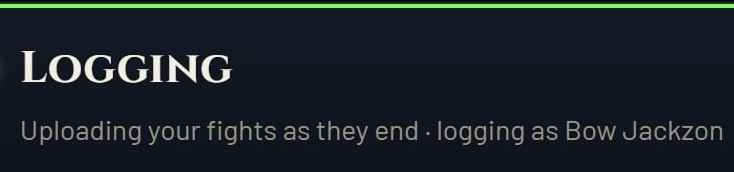
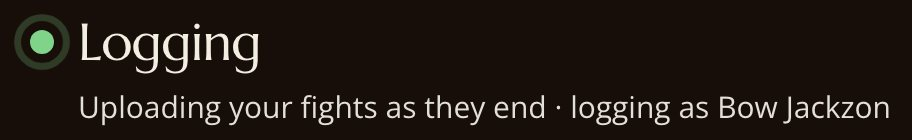
feat(setup): companion captures show the 0.2.44 window
The /setup companion step showed the 2026-10-21 window (gold seal, caps tabs,
green Logging card). Both captures are now 2x crops of companion 0.2.44
(round-5 window, seal v4), state logging-credited from
design/mocks/companion/shoot_ui.cjs, fixture name Bow Jackzon.

- companion-status.jpg 1600x460 (55 KB): band, tabs and framed headline.
- companion-status-phone.jpg 912x140 (14 KB): title and sub line only, now
  served under 640 px through Capture's optional narrow source (it was
  declared but never used, so 390 shrank the full crop to 6-7 px text).
- Alt text true for both crops; e2e aspect checks read the copy's sizes.
- Verdicts: ux-designer SHIP, ai-slop-reviewer PASS (round 2), in
  design/reviews/2026-11-10-companion-shots/.

Claude-Session: https://claude.ai/code/session_01Wrtayzxz2jvhjren4pWihn

diff --git a/web/src/components/ui/Capture.svelte b/web/src/components/ui/Capture.svelte
@@ -2,14 +2,23 @@
 <!-- A client screenshot at its own aspect (setup spec 2026-11-07 section 3A): a 1 px --line-soft
      frame, 4 px radius, --raised behind object-fit: contain, capped at its native width and 420 px
      high (900 for a portrait capture, or `maxHeight`), width and height set so nothing moves as it
-     loads, lazy unless `eager`. The image links to its own file; a sample carries a muted Tag. -->
+     loads, lazy unless `eager`. The image links to its own file; a sample carries a muted Tag. A
+     `narrow` source (a tighter crop of the same picture) replaces it under 640 px, at its own aspect. -->
 <script lang="ts">
   import Tag from './Tag.svelte';
+
+  /** A tighter crop of the same capture, shown under 640 px so its text stays legible. */
+  interface NarrowSource {
+    src: string;
+    width: number;
+    height: number;
+  }
 
   let {
     src,
     width,
     height,
+    narrow,
     alt,
     tag,
     tall = false,
@@ -20,6 +29,7 @@
     src: string;
     width: number;
     height: number;
+    narrow?: NarrowSource;
     alt: string;
     /** A muted Tag under the picture (`Example`). */
     tag?: string;
@@ -34,16 +44,36 @@
   const cap = $derived(maxHeight ?? (tall ? 900 : 420));
 </script>
 
+{#snippet image()}
+  <img {src} {width} {height} {alt} loading={eager ? 'eager' : 'lazy'} decoding="async" />
+{/snippet}
+
 <div class="ui-capture" data-testid={testid}>
-  <a
-    class="ui-capture-frame"
-    href={src}
-    style:max-width="{width}px"
-    style:max-height="{cap}px"
-    style:aspect-ratio="{width} / {height}"
-  >
-    <img {src} {width} {height} {alt} loading={eager ? 'eager' : 'lazy'} decoding="async" />
-  </a>
+  {#if narrow}
+    <a
+      class="ui-capture-frame ui-capture-frame-narrow"
+      href={src}
+      style:max-width="{width}px"
+      style:max-height="{cap}px"
+      style:--capture-ratio="{width} / {height}"
+      style:--capture-ratio-narrow="{narrow.width} / {narrow.height}"
+    >
+      <picture>
+        <source media="(max-width: 639px)" srcset={narrow.src} width={narrow.width} height={narrow.height} />
+        {@render image()}
+      </picture>
+    </a>
+  {:else}
+    <a
+      class="ui-capture-frame"
+      href={src}
+      style:max-width="{width}px"
+      style:max-height="{cap}px"
+      style:aspect-ratio="{width} / {height}"
+    >
+      {@render image()}
+    </a>
+  {/if}
   {#if tag}<Tag tone="muted">{tag}</Tag>{/if}
 </div>
 
@@ -62,6 +92,17 @@
     border: 1px solid var(--color-line-soft);
     border-radius: 4px;
     background: var(--color-raised);
+  }
+  .ui-capture-frame-narrow {
+    aspect-ratio: var(--capture-ratio);
+  }
+  @media (max-width: 639px) {
+    .ui-capture-frame-narrow {
+      aspect-ratio: var(--capture-ratio-narrow);
+    }
+  }
+  .ui-capture-frame picture {
+    display: contents;
   }
   .ui-capture-frame:hover {
     border-color: var(--color-line);

diff --git a/web/src/lib/addon/copy.ts b/web/src/lib/addon/copy.ts
@@ -174,20 +174,19 @@ export const addonCopy = {
   setupCompanionDownload: (platform: string): string => `Download for ${platform}`,
   /** Both builds side by side, when the page cannot tell the visitor's system: the group's name. */
   setupDownloadCompanion: 'Download the companion',
-  /** A 2x crop of the 0.2.11 companion's Status page, the Logging state credited to a fictional
-   *  two-word name (docs/superpowers/reviews/companion-premium/). */
+  /** A 2x crop of the 0.2.44 companion's Status page (round-5 window, seal v4), the Logging state
+   *  credited to the fixtures' fictional two-word name; shot by design/mocks/companion/shoot_ui.cjs
+   *  (state logging-credited, 800 px window). */
   setupCompanionCapture: {
     src: '/addon/companion-status.jpg',
     width: 1600,
-    height: 436,
+    height: 460,
     /** The phone source (W.10, P.1): the headline's title and sub line only, a 2x crop of the same
-     *  Status capture, shown at 100% width under 640px; the sub text is 11px at 314px wide. */
-    phoneSrc: '/addon/companion-status-phone.jpg',
-    phoneWidth: 734,
-    phoneHeight: 172,
+     *  Status capture, shown under 640px so the sub line stays near 11px at 314px wide. */
+    narrow: { src: '/addon/companion-status-phone.jpg', width: 912, height: 140 },
     /** The label on the picture while the visitor is signed out: the name in it is not theirs. */
     exampleLabel: 'Example',
-    alt: 'The companion’s Status page: the Forever Sixty header with Status, Reports, Device and Settings, then a green dot beside “Logging”, “Uploading your fights as they end · logging as Bow Jackzon” and the link “Open this report on the site”.',
+    alt: 'The companion’s Status page: Logging, uploading your fights as they end, logging as Bow Jackzon.',
   },
   /** The disclosure that holds the paste box. */
   setupTryExport: 'Try an export',

diff --git a/web/tests/e2e/launch-polish.spec.ts b/web/tests/e2e/launch-polish.spec.ts
@@ -9,6 +9,7 @@ import { mkdirSync } from 'node:fs';
 import { join } from 'node:path';
 import type { Page } from '@playwright/test';
 import { expect, test } from './support/test';
+import { companionCaptureRatio } from './support/setup-capture';
 import {
   CHARACTER,
   CHARACTER_PATH,
@@ -164,7 +165,7 @@ for (const size of SIZES) {
 test.describe('/setup picture at 390', () => {
   test.use({ viewport: { width: 390, height: 844 } });
 
-  test('is the whole Status capture at its aspect, labelled Example when signed out', async ({ page }) => {
+  test('is the Status headline crop at its aspect, labelled Example when signed out', async ({ page }) => {
     await signedOut(page);
     await page.goto('/setup');
     const frame = page.getByTestId('setup-companion-capture');
@@ -176,7 +177,7 @@ test.describe('/setup picture at 390', () => {
       .toBe(true);
     const box = await img.evaluate((el: HTMLImageElement) => el.getBoundingClientRect().toJSON());
     expect(box.width).toBeLessThanOrEqual(390);
-    expect(box.width / box.height).toBeCloseTo(1600 / 436, 0);
+    expect(box.width / box.height).toBeCloseTo(companionCaptureRatio(390), 0);
     await page.waitForLoadState('networkidle');
     await shot(page, 'setup-signed-out-390', true);
   });

diff --git a/web/src/pages/_setup.test.ts b/web/src/pages/_setup.test.ts
@@ -450,7 +450,7 @@ describe('/setup: The companion', () => {
     expect(howTo).toMatch(/<code class="ui-code[^"]*"[^>]*>\/combatlog<\/code>/);
   });
 
-  it('shows the 0.2.11 companion Status page as an eager Capture with its Example tag', () => {
+  it('shows the 0.2.44 companion Status page as an eager Capture with its Example tag', () => {
     const capture = addonCopy.setupCompanionCapture;
     const companionHtml = section('setup-companion');
     expect(companionHtml).toContain(`src="${capture.src}"`);
@@ -463,6 +463,9 @@ describe('/setup: The companion', () => {
     const bytes = readFileSync(new URL(`../../public${capture.src}`, import.meta.url));
     expect(jpegSize(bytes)).toEqual({ width: capture.width, height: capture.height });
     expect(capture.width).toBeGreaterThanOrEqual(1600);
+    expect(companionHtml).toContain(`srcset="${capture.narrow.src}"`);
+    const narrowBytes = readFileSync(new URL(`../../public${capture.narrow.src}`, import.meta.url));
+    expect(jpegSize(narrowBytes)).toEqual({ width: capture.narrow.width, height: capture.narrow.height });
   });
 
   it('server-renders every build and its signing line, with no word of Windows only (U7)', () => {

diff --git a/web/tests/e2e/onboarding-round6.spec.ts b/web/tests/e2e/onboarding-round6.spec.ts
@@ -8,6 +8,7 @@ import { join } from 'node:path';
 import type { Locator, Page } from '@playwright/test';
 import { expect, test } from './support/test';
 import { addonCopy } from '../../src/lib/addon/copy';
+import { companionCaptureRatio } from './support/setup-capture';
 import {
   CHARACTER,
   CHARACTER_PATH,
@@ -124,8 +125,10 @@ async function pictureShown(page: Page): Promise<void> {
     .poll(() => img.evaluate((el: HTMLImageElement) => el.complete && el.naturalWidth > 0))
     .toBe(true);
   const box = await img.evaluate((el: HTMLImageElement) => el.getBoundingClientRect().toJSON());
-  expect(box.height).toBeGreaterThan(60);
-  expect(box.width / box.height).toBeCloseTo(1600 / 436, 0);
+  const ratio = companionCaptureRatio(page.viewportSize()?.width ?? 1440);
+  // Never a blank box: at least 90% of the height its width and aspect call for.
+  expect(box.height).toBeGreaterThan((0.9 * box.width) / ratio);
+  expect(box.width / box.height).toBeCloseTo(ratio, 0);
 }
 
 for (const size of SIZES) {

diff --git a/web/tests/e2e/support/setup-capture.ts b/web/tests/e2e/support/setup-capture.ts
@@ -1,0 +1,10 @@
+// The /setup companion capture's expected aspect: the narrow crop under 640 px (Capture.svelte), the wide one above.
+import { addonCopy } from '../../../src/lib/addon/copy';
+
+const NARROW_BELOW = 640;
+
+export function companionCaptureRatio(viewportWidth: number): number {
+  const capture = addonCopy.setupCompanionCapture;
+  const shown = viewportWidth < NARROW_BELOW ? capture.narrow : capture;
+  return shown.width / shown.height;
+}

diff --git a/web/src/components/setup/SetupCompanion.svelte b/web/src/components/setup/SetupCompanion.svelte
@@ -102,6 +102,7 @@
       src={capture.src}
       width={capture.width}
       height={capture.height}
+      narrow={capture.narrow}
       alt={capture.alt}
       tag={capture.exampleLabel}
       eager

diff --git a/design/reviews/2026-11-10-companion-shots/verdicts.md b/design/reviews/2026-11-10-companion-shots/verdicts.md
@@ -1,0 +1,26 @@
+# Companion screenshots: verdicts (2026-11-10)
+
+Scope: /setup "The companion" step. `web/public/addon/companion-status.jpg` (1600x460) and
+`companion-status-phone.jpg` (912x140) are now 2x crops of companion 0.2.44 (round-5 window, seal v4),
+state `logging-credited` from `design/mocks/companion/shoot_ui.cjs`, with the fixture name Bow Jackzon.
+The phone crop is now served under 640 px through `Capture.svelte`'s optional `narrow` source. Before this,
+it was declared in copy.ts but nothing used it.
+
+Captures (signed out, served from the built dist): `setup-1440-full.jpg`, `setup-1440-companion-step.jpg`,
+`setup-390-full.jpg`, `setup-390-companion-step.jpg`. No other site page uses a companion image.
+
+## ux-designer: SHIP (round 2)
+
+- Round 1: SHIP. Shoulds: the 390 view scaled the full crop until its text was 6 to 7 px, the phone crop was
+  unused, and a copy.ts comment was stale.
+- Round 2: SHIP. At 390 the headline crop reads at about 12 px. At 1440 nothing changed. The Capture change
+  holds up: the narrow source is optional, existing captures keep their inline aspect-ratio, and the
+  `<picture>` source carries width and height. Should: the alt's trailing "as" was clumsy, so the alt now
+  reads "…as they end, logging as Bow Jackzon." (applied).
+
+## ai-slop-reviewer: PASS (round 2)
+
+- Round 1: FAIL. At 390 the nav row was unreadable and the alt text was a pixel inventory.
+- Round 2: PASS. At 390 the picture is just the Logging title and sub line, and it reads cleanly. At 1440
+  it is the real window with no generated look. Minor and not blocking: the Example chip (pre-existing, from
+  the spec) and the in-picture gold link, which looks clickable.
